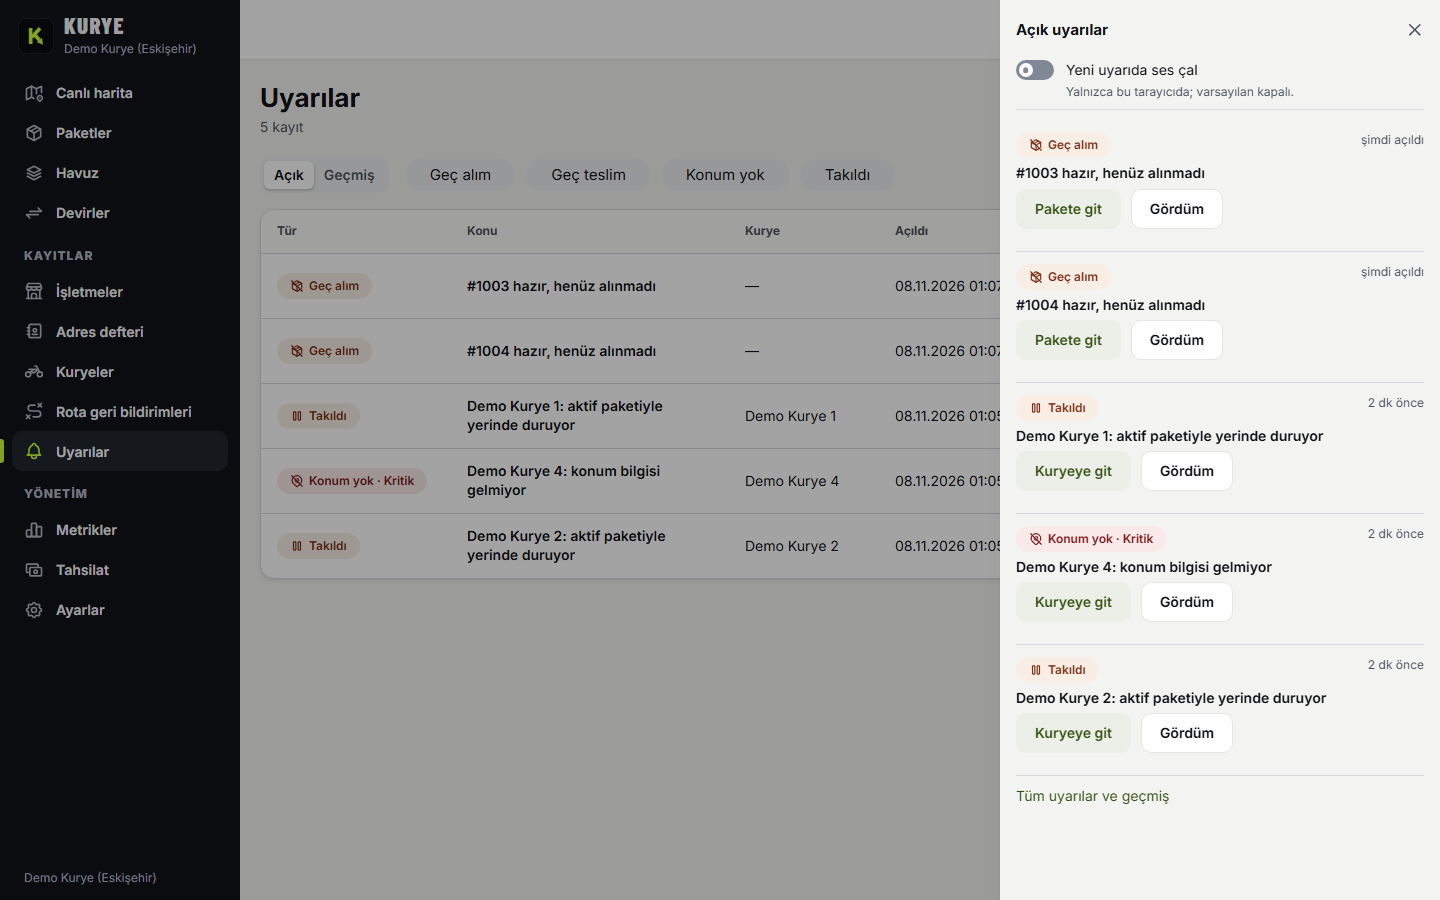
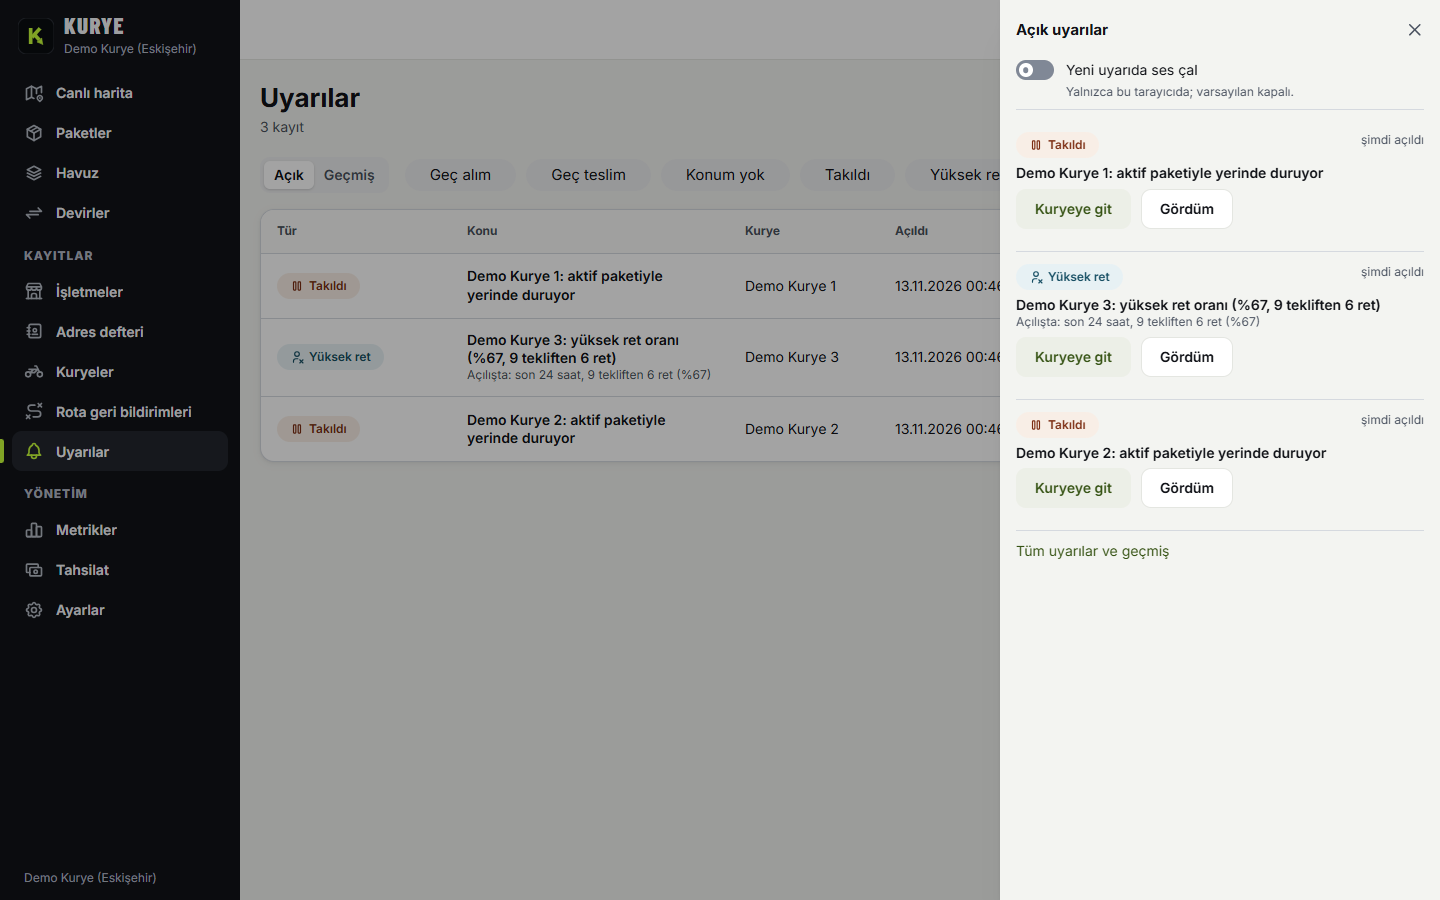
docs: ret orani uyarisi ve kurye uygulamasinda arama-filtre (PR 64, 65)

diff --git a/docs/kararlar/0036-gecikme-uyarisi.md b/docs/kararlar/0036-gecikme-uyarisi.md
@@ -43,3 +43,38 @@ Menajer bugün gecikmeyi haritaya bakarak ya da telefonla fark ediyor: hazır be
 - **Olay güdümlü hesap (paket / konum olaylarında):** daha az gecikme, ama paket, konum ve dağıtım modüllerine dokunmak gerekir; dakikalık iş yeterli bulundu.
 - **Tek "gecikme" eşiği:** farklı olaylar (alınmama, teslim aşımı, takılma) farklı süre ister; ayrı eşikler seçildi.
 - **Anlık bildirim (FCM) / SMS / e-posta:** panel içi uyarı yeterli; harici sağlayıcılar ayrı karar ve onay gerektirir.
+
+## Ek (2026-11-12, MVP+ 12): kurye ret oranı uyarısı `COURIER_HIGH_REJECTION`
+
+**Gerekçe.** Mevcut `courier.rejection_alert` olayı yalnızca vardiya başına ret **sayısına** bakar ve bir kez bildirir. Menajer "bu kurye tekliflerin çoğunu reddediyor" bilgisini panelde kalıcı, kapanan / açılan bir uyarı olarak ister; oran, çok teklif alan kuryeyi (10 tekliften 2 ret) az teklif alan kuryeden (3 tekliften 2 ret) ayırır.
+
+**Beşinci uyarı türü:**
+
+| Tür | Koşul | Ayar (varsayılan, aralık) |
+|---|---|---|
+| `COURIER_HIGH_REJECTION` | Açık vardiyası olan kuryenin son `rejectionWindowHours` saatteki ret oranı >= `rejectionRatePct` ve en az `rejectionMinOffers` teklif | `rejectionEnabled` true; `rejectionRatePct` 40 (10-100); `rejectionWindowHours` 24 (1-168); `rejectionMinOffers` 5 (3-100) |
+
+**Tanımlar (mevcut veriden):**
+- **Teklif** = `package_events` içinde kuryeye yazılan `ASSIGNED`, `REASSIGNED`, `ASSIGNED_AUTO` olayı (yönetici ya da sistem ataması). Kuryenin havuzdan kendi aldığı paket (`data.assignment.source` = `CLAIM` / `SMART_POOL_CLAIM`) ve devirle gelen paket (`HANDOVER`, devri kurye zaten kabul etmiştir) teklif **sayılmaz**.
+- **Ret** = aynı kuryenin `REJECTED` olayı (kurye uygulamasında gerekçeli ret) **ve** o paket için kuryeye yapılan son atamanın teklif olması (kaynağı `CLAIM` / `SMART_POOL_CLAIM` / `HANDOVER` değil). Böylece pay ve payda aynı kümedendir: havuzdan kendi aldığı ya da devirle gelen paketi "Reddet" ile geri vermek ret oranını şişirmez. Eşleşme, retten önceki en son atama olayına bakılarak sorguda yapılır (şema değişikliği yok). Serbest bırakma (`RELEASED`) ret değildir.
+- **Kabul süresi aşımı** (`ASSIGNMENT_EXPIRED`, ADR-0028) orana **girmez**; ayrı sayaç olarak uyarı ayrıntısında görünür (`rejection.timeouts`). Gerekçe: aşım "reddetme" kararı değildir (uygulama kapalı, telefon cebinde olabilir); yine de teklif sayısında yer alır. Ayrı eşik gerekirse ayar eklenir (ADR-0028 sonuçlarındaki not).
+- Pencere olay kayıt zamanına (`created_at`) göre **kayan** saat penceresidir (vardiya penceresi değil): bir önceki günün ret yoğunluğu da görünür, vardiya sınırında oran sıfırlanıp uyarıyı gizlemez. Oran `ret / teklif`, en çok %100 (pencere dışı teklifin pencere içi reti oranı şişirebilir; kırpılır).
+
+**Yaşam döngüsü (diğer türlerle aynı kalıp):** konu = kurye, kurye + tür başına en çok bir açık satır (mevcut kısmi benzersiz dizin); dakikalık değerlendirme, `alert.opened` / `alert.resolved` / `alert.acked` olayları (yeni olay yok), yalnızca panel rolleri, her sorgu `tenant_id` ile süzülür. **Histerezis:** açmak için oran >= eşik, açıkken oran >= eşik - 10 puan kaldığı sürece açık kalır; örneklem `rejectionMinOffers`'ın altına inerse (kayan pencere) kapanır. Yalnızca açık vardiyası olan kuryeler değerlendirilir: vardiya bitince uyarı kapanır. **Mola** oranı değiştirmez; uyarıyı açmaz da kapatmaz da (`COURIER_STALE`'in tersine mola burada bir beklenen durum değil, geçmiş veri). `severity`: oran eşiğin iki katına (en çok %100) ulaşmışsa `CRITICAL`, aksi `WARNING` (açılışta sabitlenir). Açılış anındaki sayılar (`offers`, `rejections`, `timeouts`, `ratePct`, `windowHours`) `alerts.data.rejection` içinde saklanır ve `Alert.rejection` olarak döner; kişisel veri yok, günlüğe yalnızca sayılar / kimlikler yazılır. Anahtar kapalıysa (`rejectionEnabled = false` ya da ana `enabled = false`) açık ret uyarıları kapanır.
+
+**Veri modeli (migrasyon 0014):** `tenants.alerts_rejection_enabled / _rate_pct / _window_h / _min_offers` (CHECK aralıkları), `alerts_type_chk` yeni türle genişler, `package_events(tenant_id, courier_id, created_at)` üzerinde kısmi dizin (`type IN ASSIGNED, REASSIGNED, ASSIGNED_AUTO, REJECTED, ASSIGNMENT_EXPIRED`) kurye başına sayımı hızlı yapar. Sözleşme 0.6.8: `AlertType`, `Alert.rejection`, `AlertSummary.openByType`, `AlertSettings` / `AlertSettingsUpdate` eklemedir.
+
+**Panel:** zil / çekmece / `/uyarilar` listesinde "Yüksek ret" çipi (simge + etiket), ayrıntı satırı "Açılışta: son 24 saat, 10 tekliften 5 ret (%50) · 1 kabul süresi aşımı (orana dahil değil)" (açılış anındaki ölçümdür, canlı değildir), "Kuryeye git", türe göre süzgeç; Ayarlar › Uyarılar'da anahtar + üç eşik.
+
+### Ürün sahibi kararı bekleyen (tek satırda değiştirilebilir varsayılanlar)
+
+| Karar | Önerilen / uygulanan varsayılan | Nerede değişir |
+|---|---|---|
+| Uyarı varsayılan açık mı | Açık (`rejectionEnabled = true`) | `tenants.alerts_rejection_enabled` varsayılanı (`db/schema/tenants.ts`) ya da Ayarlar › Uyarılar |
+| Ret oranı eşiği | %40 | `alerts_rejection_rate_pct` varsayılanı (10-100) |
+| Pencere | Son 24 saat, kayan (vardiya değil) | `alerts_rejection_window_h` varsayılanı (1-168) |
+| Asgari teklif sayısı | 5 | `alerts_rejection_min_offers` varsayılanı (3-100) |
+| Kapanış payı (histerezis) | 10 puan | `REJECTION_CLOSE_MARGIN_PCT` (`alerts/alert-rules.ts`) |
+| Süre aşımı orana girsin mi | Hayır (ayrı sayaç olarak gösterilir) | `highRejection` sorgusundaki `rejections` sayacı (`alerts-evaluator.service.ts`) |
+| Havuzdan kendi aldığı paket teklif sayılsın mı | Hayır (geri verilmesi de ret sayılmaz) | `highRejection` sorgusundaki `source` süzgeci |
+| Pencere türü: kayan saat mi, yalnızca geçerli vardiya mı | Kayan 24 saat. Sonucu: uyarı vardiya bitince kapanır, ertesi vardiyanın ilk dakikasında önceki günün verisiyle yeniden açılır (menajere yeni zil bildirimi gider). Alternatif: "yalnızca geçerli vardiyanın teklifleri" (her vardiya sıfırdan başlar, gün sonu yoğun ret ertesi güne taşınmaz; ama vardiyanın ilk teklifleri asgari örneklemi doldurana dek uyarı çıkmaz) | `highRejection` sorgusundaki pencere koşulu (`created_at > now - window`) yerine vardiya başlangıcı |

diff --git a/docs/YOL-HARITASI.md b/docs/YOL-HARITASI.md
@@ -16,7 +16,9 @@ Kapsam, pilot müşteri keşfi sonrasında değişebilir. Her iterasyon bir demo
 | Güvenlik (P1, KVKK saklama) | **Müşteri verisi saklama süresi (B-08):** kiracı ayarı (yeni kiracıda varsayılan 30 gün, mevcut kiracılar kapalı; 7-365, 0 = kapalı), saatlik anonimleştirme işi, elle çalıştırma ve panel Ayarlar > Gizlilik kartı; tutar / zaman / istatistik / öğrenilmiş noktalar kalır ([ADR-0032](kararlar/0032-musteri-verisi-saklama.md), sözleşme 0.6.2) | 🚧 PR açıldı; süre hukuki görüşe göre değişir |
 | MVP+ 6 | **Kapıda tahsilat mutabakatı:** kurye teslimde nakit / kart / alınamadı işaretler (kısmi tutar + sebep, çevrimdışı kuyrukta teslimle aynı gövde), "Bugün üzerimde" kartı; panelde **Tahsilat** sayfası (kurye başına günlük beklenen / tahsil edilen / kart / alınamayan / teslim edilen kasa / kuryede kalan, **Kasa teslim al**, yalnızca-ekle kayıt, CSV) (SPEC-4c, [ADR-0034](kararlar/0034-kapida-tahsilat-mutabakati.md)) | 🚧 API, mobil, panel ve sözleşme 0.6.4 PR açıldı (migration 0011) |
 | MVP+ 7 | **Gecikme uyarısı:** geç alınan paket, geç teslim, konumu kesilen ve yerinde duran kurye için menajer panelinde canlı uyarı (zil + çekmece + `/uyarilar`), kiracı eşikleri Ayarlar › Uyarılar'da, işletme sayfasında "Gecikiyor" rozeti; panel içi, FCM / SMS yok ([ADR-0036](kararlar/0036-gecikme-uyarisi.md), sözleşme 0.6.6) | 🚧 PR açıldı |
+| MVP+ 12 | **Kurye ret oranı uyarısı:** vardiyadaki kurye son 24 saatte (kayan pencere) kendisine atanan tekliflerin en az %40'ını reddettiyse (en az 5 teklif) menajer panelinde "Yüksek ret" uyarısı; kabul süresi aşımları orana girmez, ayrı sayaç; histerezisli açılış / kapanış, kiracı ayarları Ayarlar › Uyarılar'da ([ADR-0036 eki](kararlar/0036-gecikme-uyarisi.md), sözleşme 0.6.8, migrasyon 0014) | 🚧 PR açıldı |
 | MVP+ 5 (Mola) | **Mola durumu:** kurye vardiyadayken mola verir (uygulamada "Mola ver" + geri sayım + rota şeridi); molada otomatik atama / toplu plan / öneri aday saymaz, rota sürer; azami süre kiracı ayarı (10-120 dk, varsayılan 45) dolunca otomatik biter; panelde "Molada · N dk" çipi, harita işaretçisi, mola geçmişi ve Ayarlar alanı ([ADR-0035](kararlar/0035-mola-durumu.md), sözleşme 0.6.5) | 🚧 PR açıldı |
+| MVP+ 11 | **Paket arama ve süzgeç (kurye uygulaması):** "Bugün" geçmişinde ve uzun aktif listede işletme / adres / paket kodu araması (Türkçe İ-ı ve aksan duyarsız, debounce'lu), durum - ödeme türü (kapıda nakit / kart / önceden ödendi) çipleri, etkin filtre sayısı ve Temizle, boş sonuç durumu; arama durumu ayrıntıdan dönünce korunur, yüklü listede çevrimdışı çalışır. Tarih çipleri (bugün / dün / son 7 gün) hazır ama `scope=today` yalnızca bugünü döndürdüğü için liste çok güne yayılınca görünür; sunucu tarafı geçmiş uç için bkz. PR notu | 🚧 PR açıldı |
 | Yük testi darboğazları | **S1 yük testi bulgularının giderilmesi:** panel liste yenilemeleri olay güdümlü ve yoklama seyrek (panel isteği −%55), bekleyenler kuyruğu yeniden deneme aralığı kiracı ayarı (`settings.dispatch.retryIntervalS`, pilot 30 sn) ve kapasite açılınca erken deneme, konum eklemesi `synchronous_commit=off` (izole ekleme p99 93 → 14 ms); yük testine navigasyon / duran konum profilleri ([ADR-0033](kararlar/0033-yuk-testi-darbogazlari.md), rapor) | 🚧 PR açıldı |
 | 4 | Hakediş, kasa ve atama (eski İterasyon 3) | ⏳ |
 | 5+ | Genişleme (eski İterasyon 4+) | ⏳ |

diff --git a/docs/kararlar/README.md b/docs/kararlar/README.md
@@ -41,7 +41,7 @@ Mimari ve teknoloji kararları, bağlamı ve alternatifleriyle birlikte burada t
 | [0034](0034-kapida-tahsilat-mutabakati.md) | Kapıda tahsilat kaydı ve kasa mutabakatı: teslim eylemine isteğe bağlı `collection` (nakit / kart / alınamadı; çevrimdışı kuyrukta aynı gövde ve Idempotency-Key, sunucu teslimi asla reddetmez, kırpar), `packages.collected_*`, yalnızca eklenen `cash_handovers` (düzeltme eksi + notlu), `GET /payments/daily`, `POST /payments/handover`, `GET /courier/payments/today`; panel "Tahsilat" sayfası + CSV; anonimleştirme tutarlara dokunmaz | Kabul edildi |
 | [0033](0033-yuk-testi-darbogazlari.md) | Yük testi darboğazları: panel liste yenilemeleri olay güdümlü (`package.updated` yalnızca etkilenen sorguları yeniler, yoklama 120/300 sn, sekme gizliyken durur); bekleyenler kuyruğu yeniden deneme aralığı kiracı ayarı `settings.dispatch.retryIntervalS` (15-120, varsayılan 60, pilot 30) + kapasite açılınca erken deneme; konum satırı eklemesi `synchronous_commit=off` (p99 kuyruk ucu fsync beklemesiydi) | Kabul edildi |
 | [0035](0035-mola-durumu.md) | Kurye mola durumu: `shifts.break_started_at` / `break_ends_at` + `shift_breaks` geçmişi; kiracı ayarı `settings.shifts.breakMaxMin` (10-120 dk, varsayılan 45), süre dolunca iş otomatik bitirir; molada kurye `prefilter` içinde `ON_BREAK` ile aday olmaz (öneri, toplu plan, OTOMATİK, kabul süresi aşımı yeniden dağıtımı), havuz `claim` 422, elle atama ve kabul / ret serbest; uçlar `POST /courier/shifts/break/start|end`; WS `courier.shift` `BREAK_STARTED` / `BREAK_ENDED`; sözleşme 0.6.5 |
-| [0036](0036-gecikme-uyarisi.md) | Gecikme ve takılma uyarıları: dört tür (geç alım, geç teslim, konum yok, takıldı), kiracı eşikleri `settings.alerts` (OWNER; varsayılan 15 / 10 / 45 / 20 dk), dakikalık idempotent değerlendirme işi (konu + tür başına tek açık satır, koşul kalkınca kendiliğinden kapanır), `GET /alerts`, `/alerts/summary`, `POST /alerts/{id}/ack`, WS `alert.opened/resolved/acked` (yalnızca panel), panelde zil + çekmece + `/uyarilar` + Ayarlar › Uyarılar, işletme sayfasında "Gecikiyor" rozeti; FCM / SMS yok | Kabul edildi |
+| [0036](0036-gecikme-uyarisi.md) | Gecikme ve takılma uyarıları: beş tür (geç alım, geç teslim, konum yok, takıldı; 2026-11-12 ekiyle yüksek ret oranı), kiracı eşikleri `settings.alerts` (OWNER; varsayılan 15 / 10 / 45 / 20 dk), dakikalık idempotent değerlendirme işi (konu + tür başına tek açık satır, koşul kalkınca kendiliğinden kapanır), `GET /alerts`, `/alerts/summary`, `POST /alerts/{id}/ack`, WS `alert.opened/resolved/acked` (yalnızca panel), panelde zil + çekmece + `/uyarilar` + Ayarlar › Uyarılar, işletme sayfasında "Gecikiyor" rozeti; FCM / SMS yok | Kabul edildi |
 
 İterasyon 1 teknik spesifikasyonu: docs/iterasyon-1/SPEC.md. İterasyon 2 ana hedefi (rota uyumlu atama) tasarımı: docs/iterasyon-2/ROTA-UYUMLU-ATAMA.md. Kuryeler arası devir tasarımı: docs/iterasyon-2/KURYE-DEVIR.md. İterasyon 2 teknik spesifikasyonu: docs/iterasyon-2/SPEC.md. İterasyon 3 (harita platformu) planı: docs/iterasyon-3/PLAN.md; İterasyon 3a teknik spesifikasyonu: docs/iterasyon-3/SPEC-3a.md; İterasyon 3b teknik spesifikasyonu: docs/iterasyon-3/SPEC-3b.md. (0015 numarası başka bir çalışma kolunda ayrılmıştır.)
 

diff --git a/docs/MIMARI.md b/docs/MIMARI.md
@@ -290,8 +290,14 @@ Tasarım, algoritma, veri modeli taslağı ve benchmark planı: iterasyon-2/ROTA
 | `settings.alerts.lateDeliveryMin` | Kiracı | 10 | 1-120 dk | Planlı teslim tahmini bu kadar aşıldıysa `LATE_DELIVERY` |
 | `settings.alerts.lateDeliveryNoEtaMin` | Kiracı | 45 | 15-240 dk | Tahmin yoksa atanalı bu kadar geçtiyse `LATE_DELIVERY` |
 | `settings.alerts.stuckMin` | Kiracı | 20 | 5-120 dk | Aktif paketli kurye bu sürede 100 m'den az yer değiştirdiyse `STUCK_COURIER` |
+| `settings.alerts.rejectionEnabled` | Kiracı | `true` | | `COURIER_HIGH_REJECTION` (MVP+ 12) açık mı; kapatınca açık ret uyarıları kapanır |
+| `settings.alerts.rejectionRatePct` | Kiracı | 40 | 10-100 % | Kuryenin pencere içi ret oranı (`ret / teklif`) bu değere ulaşınca uyarı; 10 puan altına inince kapanır |
+| `settings.alerts.rejectionWindowHours` | Kiracı | 24 | 1-168 sa | Oranın hesaplandığı kayan pencere |
+| `settings.alerts.rejectionMinOffers` | Kiracı | 5 | 3-100 | Pencerede en az bu kadar teklif yoksa uyarı yok (1 tekliften 1 ret uyarı üretmez) |
 
 `COURIER_STALE` eşiği mevcut `settings.locationStaleMinutes`'tır (yinelenmez; etkin eşik en az 5 dk, açma ve kapama için 2 ardışık değerlendirme, molada atlanır). Değerlendirme işi dakikada bir, kiracı başına, Redis kilidiyle; `alerts` tablosunda konu + tür başına tek açık satır; koşul kalkınca kendiliğinden kapanır. Olaylar `alert.opened / resolved / acked` (yalnızca panel).
+
+`COURIER_HIGH_REJECTION` (MVP+ 12, ADR-0036 eki): teklif = yönetici / sistem ataması olayları (`ASSIGNED`, `REASSIGNED`, `ASSIGNED_AUTO`; havuzdan kendi alma ve devir hariç), ret = `REJECTED` olayı; kabul süresi aşımları orana girmez, ayrı sayaç olarak uyarı ayrıntısında (`Alert.rejection`) görünür. Yalnızca açık vardiyası olan kuryeler değerlendirilir; mola uyarıyı etkilemez. `courier.rejection_alert` (vardiya başına ret sayısı, ADR-0009) ayrı ve değişmemiştir.
 
 ### 6.3 Uygulama içi navigasyon (iterasyon 2)
 
